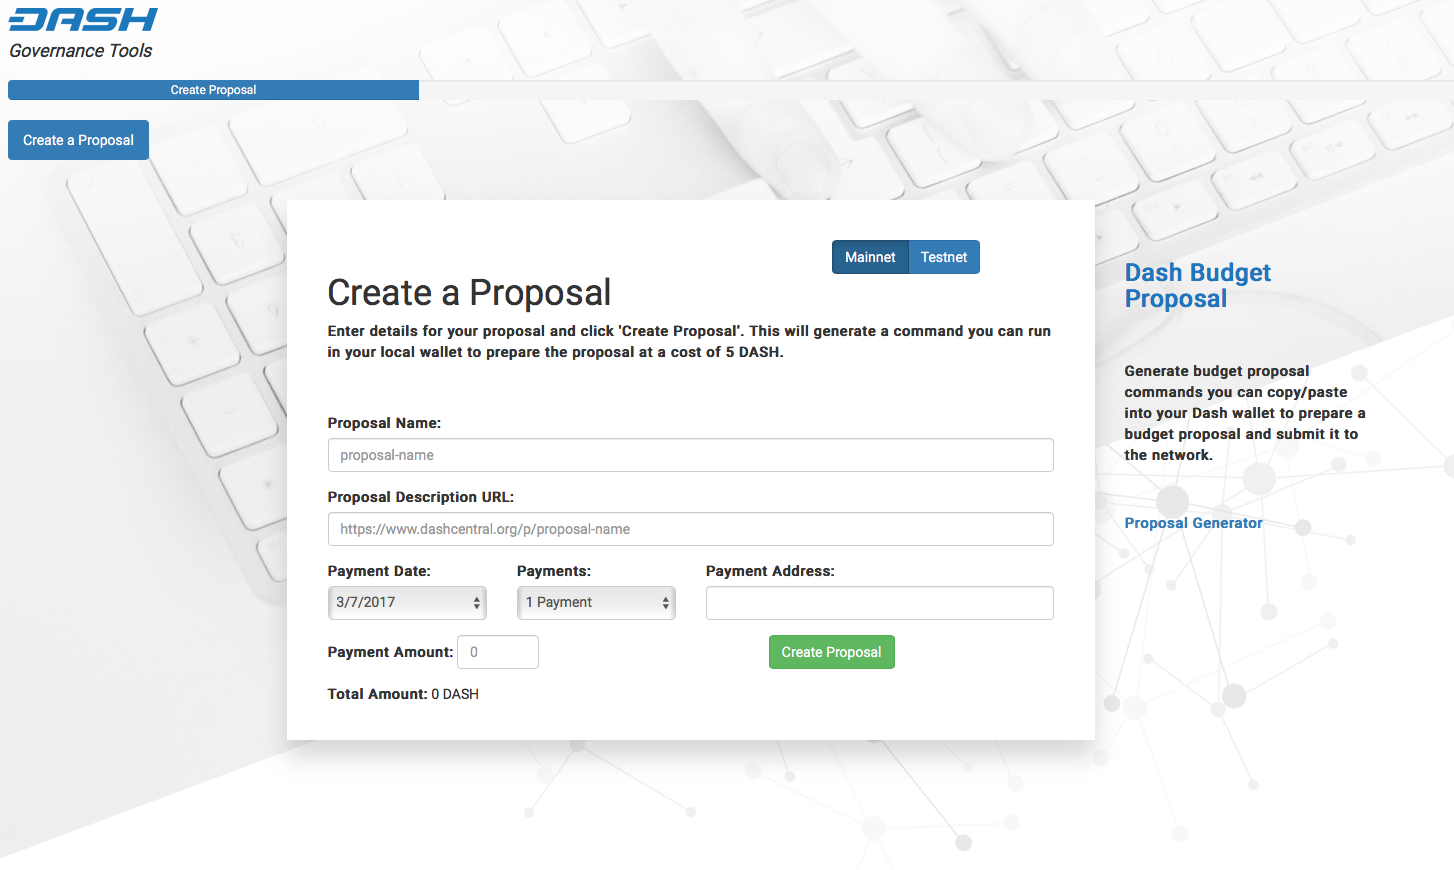
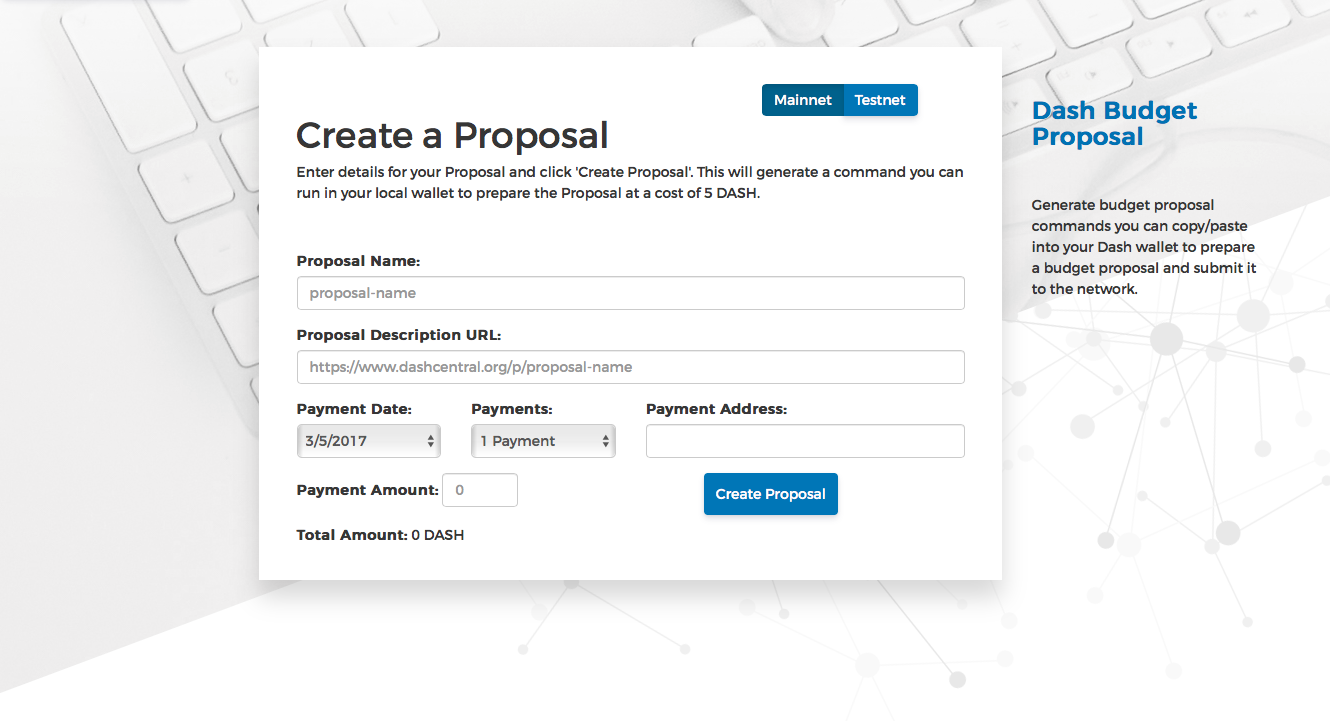
couple of posts and fixes (#133)
* News Post - 2 images

local checked

* News Post - Android

tested

* News Post

Confirm video + Pic
tested

* Image change in proposal section

(old image was cut up - pinged snogcel already to fix on his ordinal
page)
+ less background buttons now - so cleared to see what to do

diff --git a/_i18n/en/_posts/2017-02-22-icevideo.md b/_i18n/en/_posts/2017-02-22-icevideo.md
@@ -1,0 +1,7 @@
+---
+author: tungfa
+layout: post
+image: "2017-02-22-icevideo.png"
+title: "Coinfirm and Dash at ICE Conference"
+---
+<iframe width="560" height="315" src="https://www.youtube.com/embed/u8GxFAC6bIo" frameborder="0" allowfullscreen></iframe>
